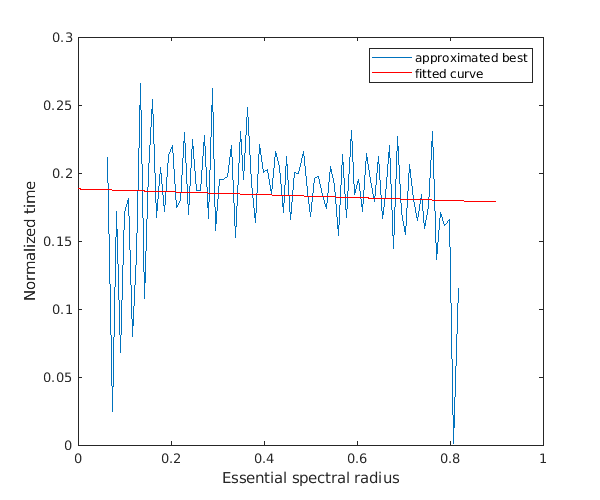
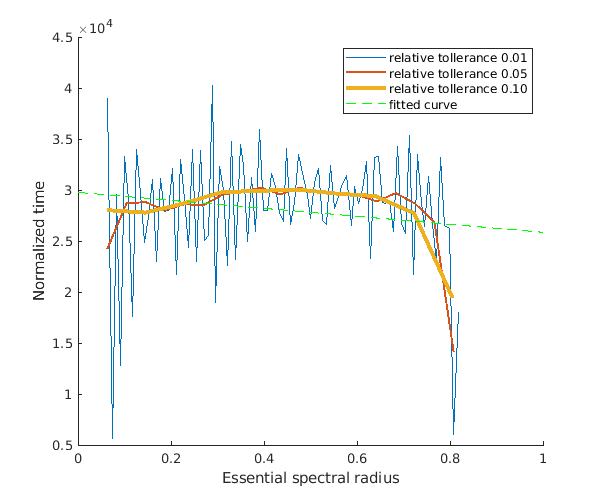
experiment_C completed, report: {experiment_c, added extras}, images for report in directory img

diff --git a/projectI/project_code/experiment_c.m b/projectI/project_code/experiment_c.m
@@ -120,11 +120,14 @@ for i = 1:length(times)
 end
 
 %% Best method
-esrQ_best = uniquetol(esrQ, 1e-2);
+for tol = [1e-2 5e-2 10e-2]
+%tol = 5e-2;
+esrQ_best = uniquetol(esrQ, tol);
 buckets = [esrQ_best; inf];
 times_best = zeros(length(esrQ_best), 1);
 tot_el = 0;
 t = zeros(numel(esrQ), 1);
+tot_el = 0;
 for i = 1:length(times_best)
    lastT = 0;
    for j = 1:numel(esrQ)
@@ -138,19 +141,54 @@ for i = 1:length(times_best)
 end
 assert(tot_el == numel(times));
 
-plot(esrQ_best, times_best);
-legend("approximated best");
-fitted = fit(esrQ_best, times_best, 'poly1');
 hold on
-plot(fitted);
+plot(esrQ_best, times_best, "LineWidth", [55.5556 21.6667 0.2778] * [tol^2 tol 1]', "DisplayName", sprintf("relative tollerance %.2f", tol));
+
+    if tol == 5e-2
+        esrQ_fitting = esrQ_best;
+        times_fitting = times_best;
+    end
+end
+
+legend;
+xlim([0 1]);
+
+%% Fit
+hold on
+fitted = fit(esrQ_fitting, times_fitting, 'poly1');
+plot(fitted, "g--");
 xlabel("Essential spectral radius");
 ylabel("Normalized time");
 
-
 %% statistics
+% Success rate and average error considering the esr.
+tol = 5e-2;
+esrQ_best = uniquetol(esrQ, tol);
+buckets = [esrQ_best ; inf];
+avg_err = zeros(length(esrQ_best),1);
+t = zeros(numel(esrQ));
+for i = 1:length(avg_err)
+   lastT = 0;
+   for j = 1:numel(esrQ)
+       if esrQ(j) < buckets(i+1) && esrQ(j) >= buckets(i) % as specified by uniquetol
+            lastT = lastT+1;
+            t(lastT) = err(j);
+       end
+   end
+   tot_el = tot_el + lastT;
+   avg_err(i) = mean(t(1:lastT)); 
+end
+
+figure
+plot(avg_err, times_fitting)
+return 
+
+%% 
+
 average_errors = zeros(length(seeds), 1);
 for i = 1:length(err(:,1))
     average_errors(i) = mean( err(i,:) );
     success_rate(i) = sum(err(i,:) == 0) / n_points_per_seed;
     fprintf("sr %4.2f, err_avg: %5.2f\n", success_rate(i), average_errors(i));
 end
+

diff --git a/projectI/project_code/report.md b/projectI/project_code/report.md
@@ -1,3 +1,4 @@
+```toc style: bullet | number | inline (default: bullet) min_depth: number (default: 2) max_depth: number (default: 6) title: string (default: undefined) allow_inconsistent_headings: boolean (default: false) delimiter: string (default: |) varied_style: boolean (default: false) ```
 # Title
 ### A project of target localization and tracking 
 > Antonio Minonne, Anna Paola Musio, Samuele Paone, Salvatore Pappalardo 
@@ -79,11 +80,40 @@ descrption
 The objective of this experiment is to verify the relationship between the essential spectral radius of the matrix Q and the convergence time of the system.
 The setup for this experiment is the following:
 
-- random sensor positions
-- 30 rounds for each sensor deployment with varying essential spectral radius manipulating $\epsilon$ between 0.2 and 0.8 the maximum permitted value
-- 
+- random sensor deployment,
+- fixed target at the center of the room,
+- 30 rounds for each sensor deployment with varying essential spectral radius manipulating $\epsilon$ between 20% and 80% the maximum permitted value, 
+- maximum time set to 1e5 cycles,
+- early stopping if the 2-norm of the  $\overline{x}$ gets below 1e-6, where $\overline{x}$ represents the average value of the state `x` over each sensor ($\overline{x} = \sum_{i=1}^n{x_i}$).
+
+A total of 60 different sensor deployment were run. For each run, a total of 30 points were evaluated, each point corresponding to a different value of the essential spectral radius.
+
 #### Results
+Analyzing the result of this experiment wans't simple. Each run produced a completely different outcome which wasn't simple to generalize. To address this problem, as explained above, we decided to run 60 different experiments each with 30 different eigenvalues. 
 
+The nex step was to analyze the obtained data as a whole and since there were no two equal eigenvalues we adopted the following procedure:
+- firstly, we computed a _class of eignevalues_, i.e. we grouped them using a similarity criterion. In order to do that, we used the matlab function `unique_tol`. Two values `u` and `v`, based on the matlab reference, are whithin `tolerance` if `abs(u-v) <= tolerance * max(vector)` where `vector` represents correspond to the values we want to group toghether. 
+- The above step generated some _buckets_, bounds we could use to group times.
+- The second step was to group the times based on the same criterion, so all the time values corresponding to an essential spectral radius class were averaged togheter. For performing this step, given the variety of the convergence times (between a minimum of 3000 cycles up to 10000) it was necessary to normlize them in such a way that for each specific sensor deployment the times would range between 0 and 1.
 
-## Extensions (Se ne facciamo)
-etc...
+This process was repeated three times with three different relative tolerance values. In the figure the three results are shown.
+![[experiment_c.png]]
+Furthermore, the green line represents the linear regression of the curve in yellow, which is the one computed with a relative tolerance of 10e-2.
+The linear regressions have a negative angular coefficient, even though small (-0.044), which describes the tendancy of the algorithm to faster converge given a higher essential spectral radius.
+
+## Extensions
+In this section we shall present some extra implementations we made. No formal experiment was run, but a couple of interesting observations came out.
+### More measurements (m>1)
+The first thing we tried to do was to make the sensors measure more than one time. A good way to generate a better dictionary might consist in mooving the target around inside the cell for the sensors to pick up a slightly different measurement for the specific cell. This was not done since in the simulation there was added noise. The noise guarantee different measures for each time instant. 
+An argument one might do is as following: if the noise is too small, there is no added information in doing a second measurement, or at least is very small, so moving the target around inside the cell might increase the gathered informations needed for the target localization.
+### More targets (k > 1)
+Another interesting fact was how the value of k changed when adding sensors or measurements. We noted that k could reach dramatically high values. This only happened, thought, applying Feng's theorem which is a great tool in this context. The only problem was that, at some point, if we only added measurements, some informations were lost applying the theorem. That's due to the fact that the matrix A stopped to being full matrix when m was too big.
+### More sensors (n>25)
+For using more sensors, as explained in the previous paragraphs, we needed to disable Feng's theorem. This way we were able to localize the target in a pretty much perfect way. With 100 sensors, each performing 20 measurements, the results were stunning. Surely, it is not that practical to have one sensor per cell in real life.
+Another important point was the sensibility of the algorithm to the $\tau$ parameter. In order for the system to not diverge or go to zero, we needed to carefully change its value until we found the sweet spot for the given configuration.
+The next table shows three parameter for different configurations.
+
+|                    Configuration                  |       $\tau$      |
+|      Using Feng, n = 25, 1<=m<=4     |      .7      |
+| Not using Feng, 25<=n<=50, m=20 | .378e-6 | 
+|      Not using Feng, n=100, m=25      |    1e-7    |
